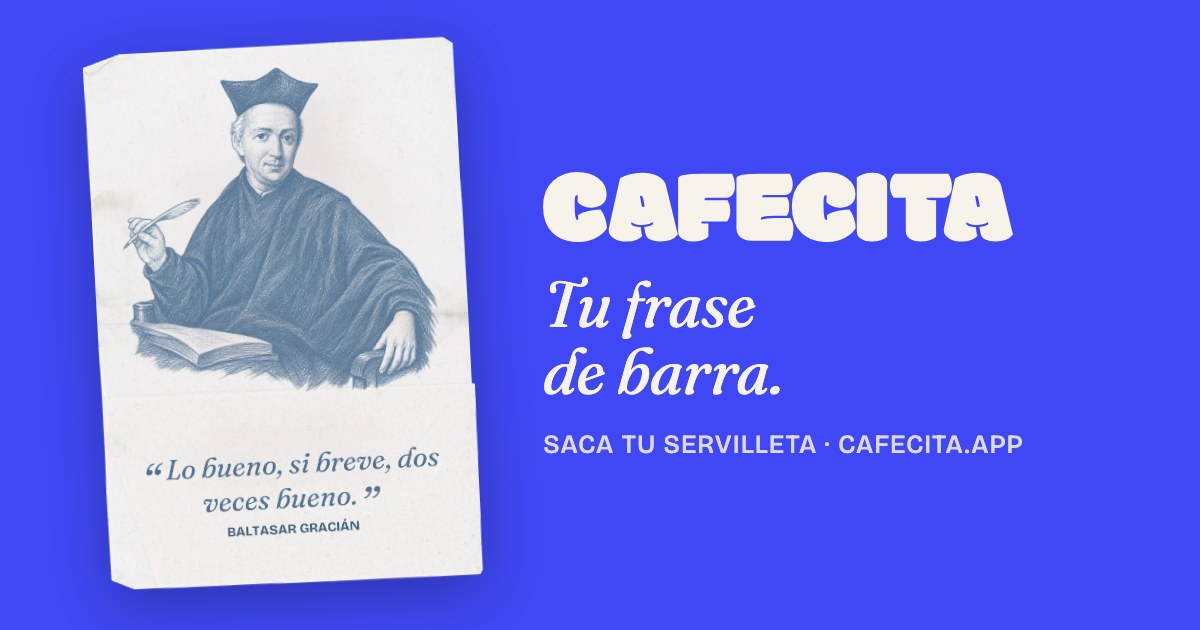
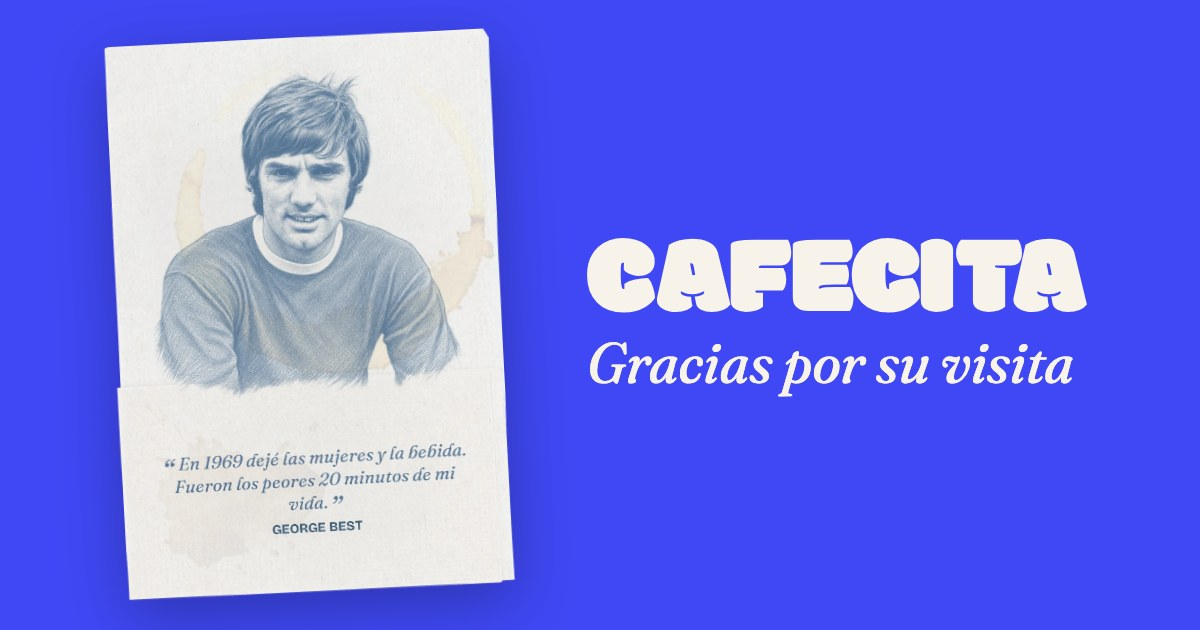
Marca CAFECITA, silueta de carga e imagen de George Best al compartir
- Título y textos: CAFECITA y «Gracias por su visita»
- Imagen para compartir con la servilleta de George Best
- Silueta del servilletero mientras carga el modelo 3D

Changed region(s): [[0.0617, 0.0302, 0.925, 0.9651]]

diff --git a/index.html b/index.html
@@ -5,16 +5,16 @@
   <meta name="viewport" content="width=device-width, initial-scale=1, viewport-fit=cover" />
   <meta http-equiv="Content-Security-Policy" content="default-src 'self'; script-src 'self' 'sha256-XXII1TwAN2TrTrsiI2NAXH44vp64aSYdt4qoJm5hg0k='; style-src 'self'; font-src 'self'; img-src 'self' data: blob:; connect-src 'self' data: blob:; object-src 'none'; base-uri 'none'; form-action 'none'" />
   <meta name="referrer" content="strict-origin-when-cross-origin" />
-  <title>Cafecita · Tu frase de barra</title>
-  <meta name="description" content="Lo que se dice en la barra. Saca tu servilleta del día: una frase con gracia y una de filosofía, distintas en cada móvil." />
+  <title>CAFECITA</title>
+  <meta name="description" content="Gracias por su visita." />
   <meta name="theme-color" content="#3F48F4" />
   <link rel="icon" href="favicon.svg" type="image/svg+xml" />
   <link rel="apple-touch-icon" href="apple-touch-icon.png" />
   <link rel="canonical" href="https://cafecita.app/" />
   <meta property="og:type" content="website" />
-  <meta property="og:site_name" content="Cafecita" />
-  <meta property="og:title" content="Cafecita · Tu frase de barra" />
-  <meta property="og:description" content="Saca tu servilleta del día. Gracias por su visita." />
+  <meta property="og:site_name" content="CAFECITA" />
+  <meta property="og:title" content="CAFECITA" />
+  <meta property="og:description" content="Gracias por su visita." />
   <meta property="og:url" content="https://cafecita.app/" />
   <meta property="og:image" content="https://cafecita.app/og.jpg" />
   <meta property="og:image:width" content="1200" />
@@ -33,12 +33,14 @@
     }
   </script>
 </head>
-<body>
+<body class="loading">
   <header class="top">
     <h1 class="logo" aria-label="CAFECITA">
       <svg aria-hidden="true" focusable="false" xmlns="http://www.w3.org/2000/svg" viewBox="0 -1322 9047 1349" fill="currentColor"><path d="M658-398L658-398Q668-398 676-403L676-403L676-494Q744-540 866.5-569Q989-598 1105-598L1105-598Q1158-544 1193.5-436.5Q1229-329 1231-242L1231-242Q1211-202 1163.5-156Q1116-110 1049-71L1049-71Q883 27 668 27L668 27Q360 27 183-152L183-152Q0-333 0-653.5Q0-974 200-1157L200-1157Q288-1239 405-1280.5Q522-1322 651-1322L651-1322Q903-1322 1064-1200Q1225-1078 1225-899L1225-899Q1225-764 1142-699.5Q1059-635 917-635L917-635Q839-635 760-673.5Q681-712 666-746L666-746Q666-828 669-875L669-875Q667-876 662-876L662-876L655-876Q640-876 631.5-867.5Q623-859 616.5-832Q610-805 610-685L610-685Q610-398 658-398ZM1903.5-657Q1911.5-649 1928.5-649Q1945.5-649 1957.5-656L1957.5-656Q1931.5-808 1922.5-836L1922.5-836Q1911.5-865 1889.5-865L1889.5-865Q1879.5-865 1865.5-859L1865.5-859L1903.5-657ZM1705.5-357L1705.5-357Q1695.5-343 1695.5-331L1695.5-331Q1695.5-302 1750.0-282.5Q1804.5-263 1882.5-258L1882.5-258Q1895.5-114 1910.5-94L1910.5-94Q1891.5-57 1805.5-19.5Q1719.5 18 1611.5 18L1611.5 18Q1468.5 18 1366.5-43.5Q1264.5-105 1264.5-202L1264.5-202Q1264.5-228 1269.5-248L1269.5-248L1482.5-1200Q1562.5-1251 1673.5-1280Q1784.5-1309 1904.5-1309L1904.5-1309Q2076.5-1309 2198.5-1251L2198.5-1251Q2337.5-1185 2367.5-1060L2367.5-1060L2595.5-117Q2491.5 18 2256.5 18L2256.5 18Q2142.5 18 2063.5-23Q1984.5-64 1971.5-140L1971.5-140L1949.5-262Q2009.5-263 2065.5-285Q2121.5-307 2121.5-331L2121.5-331Q2121.5-347 2108.5-357L2108.5-357Q2070.5-330 2015.5-316Q1960.5-302 1913.5-302L1913.5-302Q1778.5-302 1705.5-357ZM3184.0-329L3184.0-329L3184.0-76Q3138.0-36 3061.5-9Q2985.0 18 2875.5 18Q2766.0 18 2687.0-31L2687.0-31Q2600.0-84 2600.0-182L2600.0-182L2600.0-1198Q2600.0-1290 3051.0-1290L3051.0-1290L3638.0-1290Q3667.0-1237 3681.0-1171.5Q3695.0-1106 3695.0-1054L3695.0-1054Q3695.0-825 3494.0-825L3494.0-825L3148.0-825Q3110.0-825 3110.0-793L3110.0-793L3110.0-786Q3110.0-780 3112.0-778L3112.0-778L3554.0-778Q3605.0-691 3605.0-582L3605.0-582Q3605.0-446 3544.0-370L3544.0-370L3054.0-370Q3046.0-362 3046.0-352L3046.0-352Q3046.0-336 3070.5-333Q3095.0-330 3126.0-330Q3157.0-330 3184.0-329ZM4173.5-1290L4173.5-1290L4750.5-1290Q4779.5-1242 4793.5-1185.5Q4807.5-1129 4807.5-1084L4807.5-1084Q4807.5-983 4768.0-932Q4728.5-881 4657.5-881L4657.5-881L4254.5-881Q4217.5-881 4217.5-852L4217.5-852L4217.5-844Q4217.5-838 4219.5-836L4219.5-836L4697.5-836Q4715.5-805 4728.5-758L4728.5-758Q4740.5-707 4740.5-667L4740.5-667Q4740.5-548 4696.5-481L4696.5-481L4479.5-481Q4327.5-481 4273.5-469.5Q4219.5-458 4206.5-450L4206.5-450Q4193.5-441 4193.5-427Q4193.5-413 4207.5-405L4207.5-405Q4259.5-422 4316.5-429L4316.5-429Q4391.5-436 4479.5-436L4479.5-436L4760.5-436Q4821.5-350 4821.5-229L4821.5-229Q4821.5-161 4804.5-99Q4787.5-37 4753.5 1L4753.5 1L4004.5 1Q3880.5 1 3805.5-59L3805.5-59Q3723.5-123 3723.5-247L3723.5-247L3723.5-1198Q3723.5-1246 3833.5-1268Q3943.5-1290 4173.5-1290ZM5448.0-398L5448.0-398Q5458.0-398 5466.0-403L5466.0-403L5466.0-494Q5534.0-540 5656.5-569Q5779.0-598 5895.0-598L5895.0-598Q5948.0-544 5983.5-436.5Q6019.0-329 6021.0-242L6021.0-242Q6001.0-202 5953.5-156Q5906.0-110 5839.0-71L5839.0-71Q5673.0 27 5458.0 27L5458.0 27Q5150.0 27 4973.0-152L4973.0-152Q4790.0-333 4790.0-653.5Q4790.0-974 4990.0-1157L4990.0-1157Q5078.0-1239 5195.0-1280.5Q5312.0-1322 5441.0-1322L5441.0-1322Q5693.0-1322 5854.0-1200Q6015.0-1078 6015.0-899L6015.0-899Q6015.0-764 5932.0-699.5Q5849.0-635 5707.0-635L5707.0-635Q5629.0-635 5550.0-673.5Q5471.0-712 5456.0-746L5456.0-746Q5456.0-828 5459.0-875L5459.0-875Q5457.0-876 5452.0-876L5452.0-876L5445.0-876Q5430.0-876 5421.5-867.5Q5413.0-859 5406.5-832Q5400.0-805 5400.0-685L5400.0-685Q5400.0-398 5448.0-398ZM6624.5-1109L6624.5-1109L6624.5-76Q6578.5-36 6501.5-9Q6424.5 18 6314.5 18Q6204.5 18 6127.5-31L6127.5-31Q6040.5-84 6040.5-181L6040.5-181L6040.5-1214Q6086.5-1254 6163.5-1281Q6240.5-1308 6349.5-1308Q6458.5-1308 6538.5-1260L6538.5-1260Q6624.5-1205 6624.5-1109ZM7498.0-779L7567.0-779L7567.0-76Q7521.0-36 7444.0-9Q7367.0 18 7257.0 18Q7147.0 18 7070.0-31L7070.0-31Q6983.0-84 6983.0-181L6983.0-181L6983.0-825L6750.0-825Q6678.0-928 6678.0-1050L6678.0-1050Q6678.0-1133 6704.5-1194.5Q6731.0-1256 6770.0-1290L6770.0-1290L7804.0-1290Q7833.0-1245 7852.0-1181Q7871.0-1117 7871.0-1054L7871.0-1054Q7871.0-936 7819.0-880.5Q7767.0-825 7679.0-825L7679.0-825L7386.0-825Q7383.0-818 7383.0-810L7383.0-810Q7383.0-792 7404.0-786L7404.0-786Q7426.0-779 7498.0-779L7498.0-779ZM8354.5-657Q8362.5-649 8379.5-649Q8396.5-649 8408.5-656L8408.5-656Q8382.5-808 8373.5-836L8373.5-836Q8362.5-865 8340.5-865L8340.5-865Q8330.5-865 8316.5-859L8316.5-859L8354.5-657ZM8156.5-357L8156.5-357Q8146.5-343 8146.5-331L8146.5-331Q8146.5-302 8201.0-282.5Q8255.5-263 8333.5-258L8333.5-258Q8346.5-114 8361.5-94L8361.5-94Q8342.5-57 8256.5-19.5Q8170.5 18 8062.5 18L8062.5 18Q7919.5 18 7817.5-43.5Q7715.5-105 7715.5-202L7715.5-202Q7715.5-228 7720.5-248L7720.5-248L7933.5-1200Q8013.5-1251 8124.5-1280Q8235.5-1309 8355.5-1309L8355.5-1309Q8527.5-1309 8649.5-1251L8649.5-1251Q8788.5-1185 8818.5-1060L8818.5-1060L9046.5-117Q8942.5 18 8707.5 18L8707.5 18Q8593.5 18 8514.5-23Q8435.5-64 8422.5-140L8422.5-140L8400.5-262Q8460.5-263 8516.5-285Q8572.5-307 8572.5-331L8572.5-331Q8572.5-347 8559.5-357L8559.5-357Q8521.5-330 8466.5-316Q8411.5-302 8364.5-302L8364.5-302Q8229.5-302 8156.5-357Z"/></svg>
     </h1>
   </header>
+
+  <div class="skeleton" aria-hidden="true"><div class="skeleton-box"><span class="skeleton-side"></span><span class="skeleton-napkin"></span></div></div>
 
   <canvas id="scene" aria-label="Servilletero. Abre la solapa de la servilleta, súbela y tira hacia abajo para sacarla."></canvas>
 

diff --git a/style.css b/style.css
@@ -29,6 +29,56 @@ html, body {
   user-select: none;
 }
 
+/* ---------- Carga: silueta del servilletero hasta que llega el modelo 3D ---------- */
+#scene { transition: opacity .6s ease; }
+.loading #scene { opacity: 0; }
+
+.skeleton {
+  /* misma escala que la cámara de main.js: el alto de la escena es 2,1 × el servilletero */
+  --s: min(100vh / 25.3, 100vw / 19.8);
+  position: fixed;
+  inset: 0;
+  z-index: 1;
+  display: grid;
+  place-items: center;
+  pointer-events: none;
+  transition: opacity .5s ease;
+}
+@supports (height: 100dvh) { .skeleton { --s: min(100dvh / 25.3, 100vw / 19.8); } }
+body:not(.loading) .skeleton { opacity: 0; }
+
+.skeleton-box {
+  position: relative;
+  width: calc(var(--s) * 12);
+  height: calc(var(--s) * 12.8);
+  border-radius: calc(var(--s) * .35);
+  background: rgba(255, 255, 255, .14);
+  overflow: hidden;
+}
+.skeleton-side {
+  position: absolute;
+  inset: 0 74% 0 0;
+  background: rgba(12, 14, 46, .1);
+}
+.skeleton-napkin {
+  position: absolute;
+  top: 7%; bottom: 5%; left: 39%; right: 3%;
+  border-radius: calc(var(--s) * .12);
+  background: rgba(255, 255, 255, .2);
+}
+.skeleton-box::after {
+  content: '';
+  position: absolute;
+  inset: 0;
+  background: linear-gradient(100deg, transparent 30%, rgba(255, 255, 255, .22) 50%, transparent 70%);
+  transform: translateX(-100%);
+  animation: skeleton-shine 1.6s ease-in-out infinite;
+}
+@keyframes skeleton-shine { to { transform: translateX(100%); } }
+@media (prefers-reduced-motion: reduce) {
+  .skeleton-box::after { animation: none; display: none; }
+}
+
 .top {
   position: fixed;
   top: 0; left: 0; right: 0;

diff --git a/main.js b/main.js
@@ -388,6 +388,8 @@ contact.position.y = 0.01;
 dispenser.add(contact);
 
 const pickables = [];
+// hasta que llega el modelo se ve la silueta (.skeleton); luego entra la escena
+const loaded = () => requestAnimationFrame(() => requestAnimationFrame(() => document.body.classList.remove('loading')));
 new GLTFLoader().load('models/servilletero.glb', (gltf) => {
   gltf.scene.traverse((o) => {
     if (!o.isMesh) return;
@@ -396,7 +398,8 @@ new GLTFLoader().load('models/servilletero.glb', (gltf) => {
     pickables.push(o);
   });
   dispenser.add(gltf.scene);
-});
+  loaded();
+}, undefined, loaded);
 
 // ---------- Servilleta: hoja de papel simulada ----------
 // Rejilla de partículas (verlet) con distancias fijas: el papel se dobla pero no se estira.
@@ -878,9 +881,9 @@ if (navigator.share) {
   $('share').addEventListener('click', async () => {
     const file = new File([await storyBlob()], fileName(), { type: 'image/jpeg' });
     try {
-      const text = 'Mi servilleta de hoy. Saca la tuya en cafecita.app';
+      const text = 'Gracias por su visita.';
       if (navigator.canShare && navigator.canShare({ files: [file] })) await navigator.share({ files: [file], title: 'Mi servilleta de hoy', text });
-      else await navigator.share({ title: 'Cafecita · Tu frase de barra', text, url: 'https://cafecita.app/' });
+      else await navigator.share({ title: 'CAFECITA', text, url: 'https://cafecita.app/' });
     } catch {}
   });
 }
